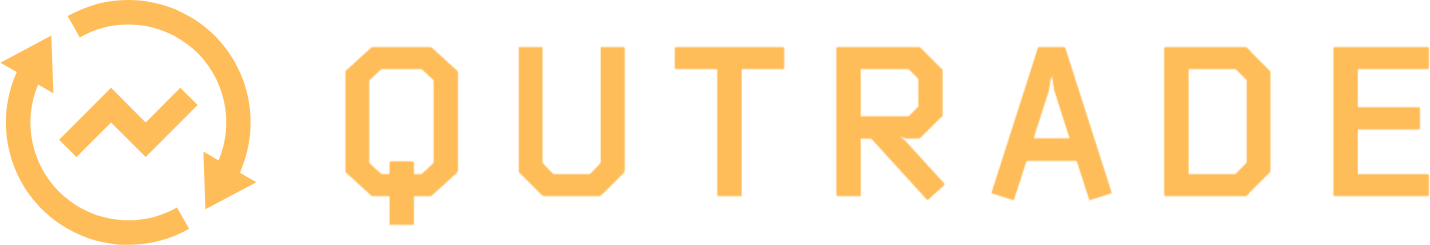
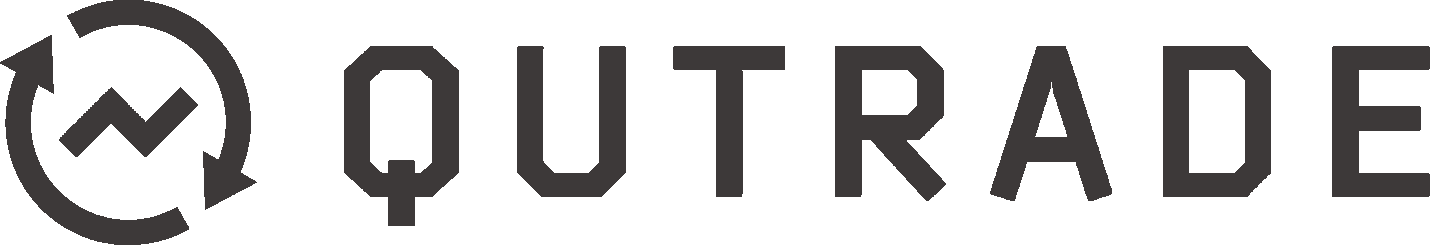
get-firo: add dexes (#500)
* Update Qutrade colour

* Add Bison Wallet and BasicSwap

diff --git a/get-firo/buy-firo/index.html b/get-firo/buy-firo/index.html
@@ -41,6 +41,12 @@ permalink: /get-firo/buy-firo/index.html
               <div class="col">
                   <a href="https://github.com/firoorg/FiroDEX-Desktop/releases/latest" target="_blank"><img src="/img/dex/firodex-logo.png" alt="FiroDEX logo" title="FiroDEX"></a>
               </div>
+              <div class="col">
+                  <a href="https://github.com/decred/dcrdex/releases/latest" target="_blank"><img src="/img/dex/bisonwallet.svg" alt="Bison Wallet logo" title="Bison Wallet"></a>
+              </div>
+              <div class="col">
+                  <a href="https://basicswapdex.com/" target="_blank"><img src="/img/dex/basicswap.svg" alt="BasicSwap logo" title="BasicSwap"></a>
+              </div>
           </div>
         </div>
   	  </section>
